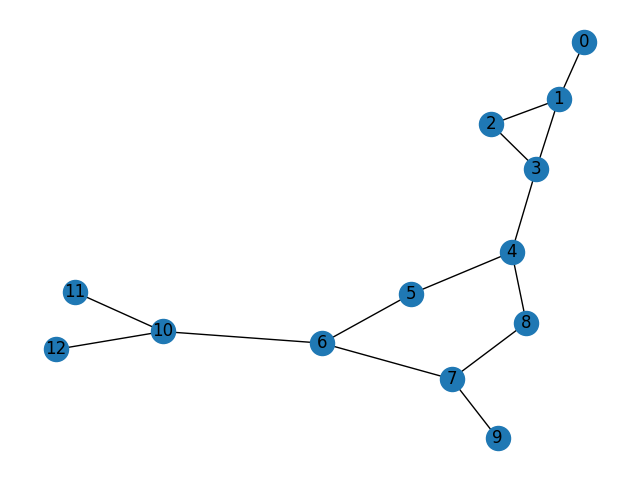
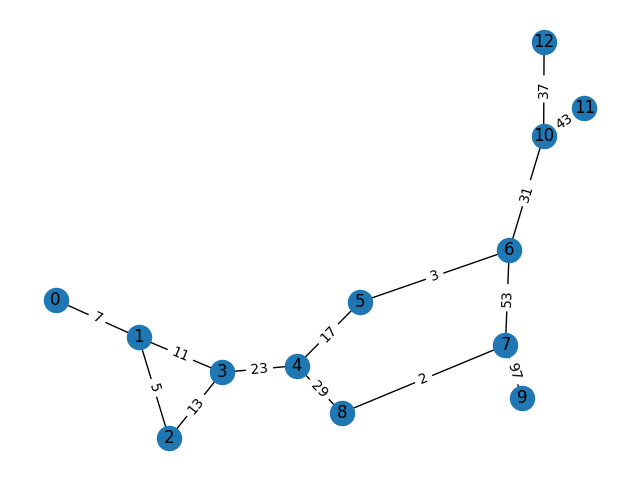
Add more tests and more weights to previous tests

diff --git a/data/visualizer.py b/data/visualizer.py
@@ -2,24 +2,36 @@ import networkx as nx                 # pip install networkx scipy
 import matplotlib.pyplot as plt       # pip install matplotlib
 import os
 
-def visualize(directory):
+def visualize(directory, level=0):
     items = os.listdir(directory)
     for item in items:
         p = os.path.join(directory, item)
-        if os.path.isdir(p):
-            visualize(p)
-        elif os.path.isfile(p) and p.endswith('.in'):
+        if 'planar' in p:
+            continue
+        elif os.path.isdir(p):
+            print(" " * level + item + ": ")
+            visualize(p, level + 2)
+        elif os.path.isfile(p) and (p.endswith('.in') or p.endswith('.mtx')):
             try:
+                print(" " * level + item + ":")
                 g = read_graph(p)
-                plot_graph(g, p[:-3] + '.png')
+                if g is None:
+                    print(" " * (level+2) + "Graph to large, skipping.")
+                else:
+                    print(" " * (level+2) + "Plotting....")
+                    plot_graph(g, p[:-3] + '.png')
+                    print(" " * (level+2) + "Done!")
             except IOError:
                 print(f"Could not read '{p}' :-(")
 
 def read_graph(path):
     with open(path, 'r') as f:
-        _ = int(f.readline())
+        lines = [line for line in f.readlines() if not line.startswith("%")]
+        n = int(lines[0])
+        if n >= 100:
+            return None
         g = nx.Graph()
-        for uv in ([int(u) for u in uv.split()] for uv in f.readlines() if not uv.startswith('%')):
+        for uv in ([int(u) for u in uv.split()] for uv in lines[1:]):
             if len(uv) == 2:
                 u, v = uv
                 g.add_edge(u, v)
@@ -27,6 +39,7 @@ def read_graph(path):
                 u, v, w = uv
                 g.add_edge(u, v, weight=w)
             else:
+                print(uv)
                 raise IOError("Could not read the graph :-(")
         return g
 

diff --git a/tests/utility/problem.rs b/tests/utility/problem.rs
@@ -48,6 +48,7 @@ impl <W> Problem<W> for ShortestOddWalk
             (Infinite, Possible {cost: _, path}) => panic!("{}\nExpected to not find any {}-{}-walk, but found one anyway: {:?}", context, 0, sink, path),
             (Finite(cost), Impossible) => panic!("{}\nExpected the alg to find an {}-{}-walk of cost {}, but it did not", context, 0, sink, cost),
             (Finite(expected_cost), Possible {cost: actual_cost, path}) => {
+                assert_eq!(path.len() % 2, 0);
                 verify_path::<W, Self>(graph, &context, *expected_cost, *actual_cost, path, 0, *sink);
             },
             _ => {}
@@ -82,6 +83,7 @@ impl <W> Problem<W> for ShortestOddPath
             (Infinite, Possible {cost: _, path}) => panic!("{}\nExpected to not find any {}-{}-path, but found one anyway: {:?}", context, 0, sink, path),
             (Finite(cost), Impossible) => panic!("{}\nExpected the alg to find an {}-{}-path of cost {}, but it did not", context, 0, sink, cost),
             (Finite(expected_cost), Possible {cost: actual_cost, path}) => {
+                assert_eq!(path.len() % 2, 0);
                 verify_path::<W,Self>(graph, &context, *expected_cost, *actual_cost, path, 0, *sink);
                 for i in 0..path.len()-1 {
                     assert!( ! path[i+1..].contains(&path[i]), "{}\nThis was supposed to be a simple path, but {} was used at least twice!", context, path[i]);

diff --git a/tests/test_odd_path.rs b/tests/test_odd_path.rs
@@ -56,6 +56,8 @@ mod large_paths {
     fn large1() { test("large1"); }
     #[test]
     fn large2() { test("large2"); }
+    #[test]
+    fn large3() { test("large3"); }
 }
 
 mod special_paths {
@@ -63,4 +65,10 @@ mod special_paths {
 
     #[test]
     fn gamma4() { test("gamma4"); }
+
+    #[test]
+    fn petersen() { test("petersen"); }
+
+    #[test]
+    fn grid5() { test("grid5"); }
 }
